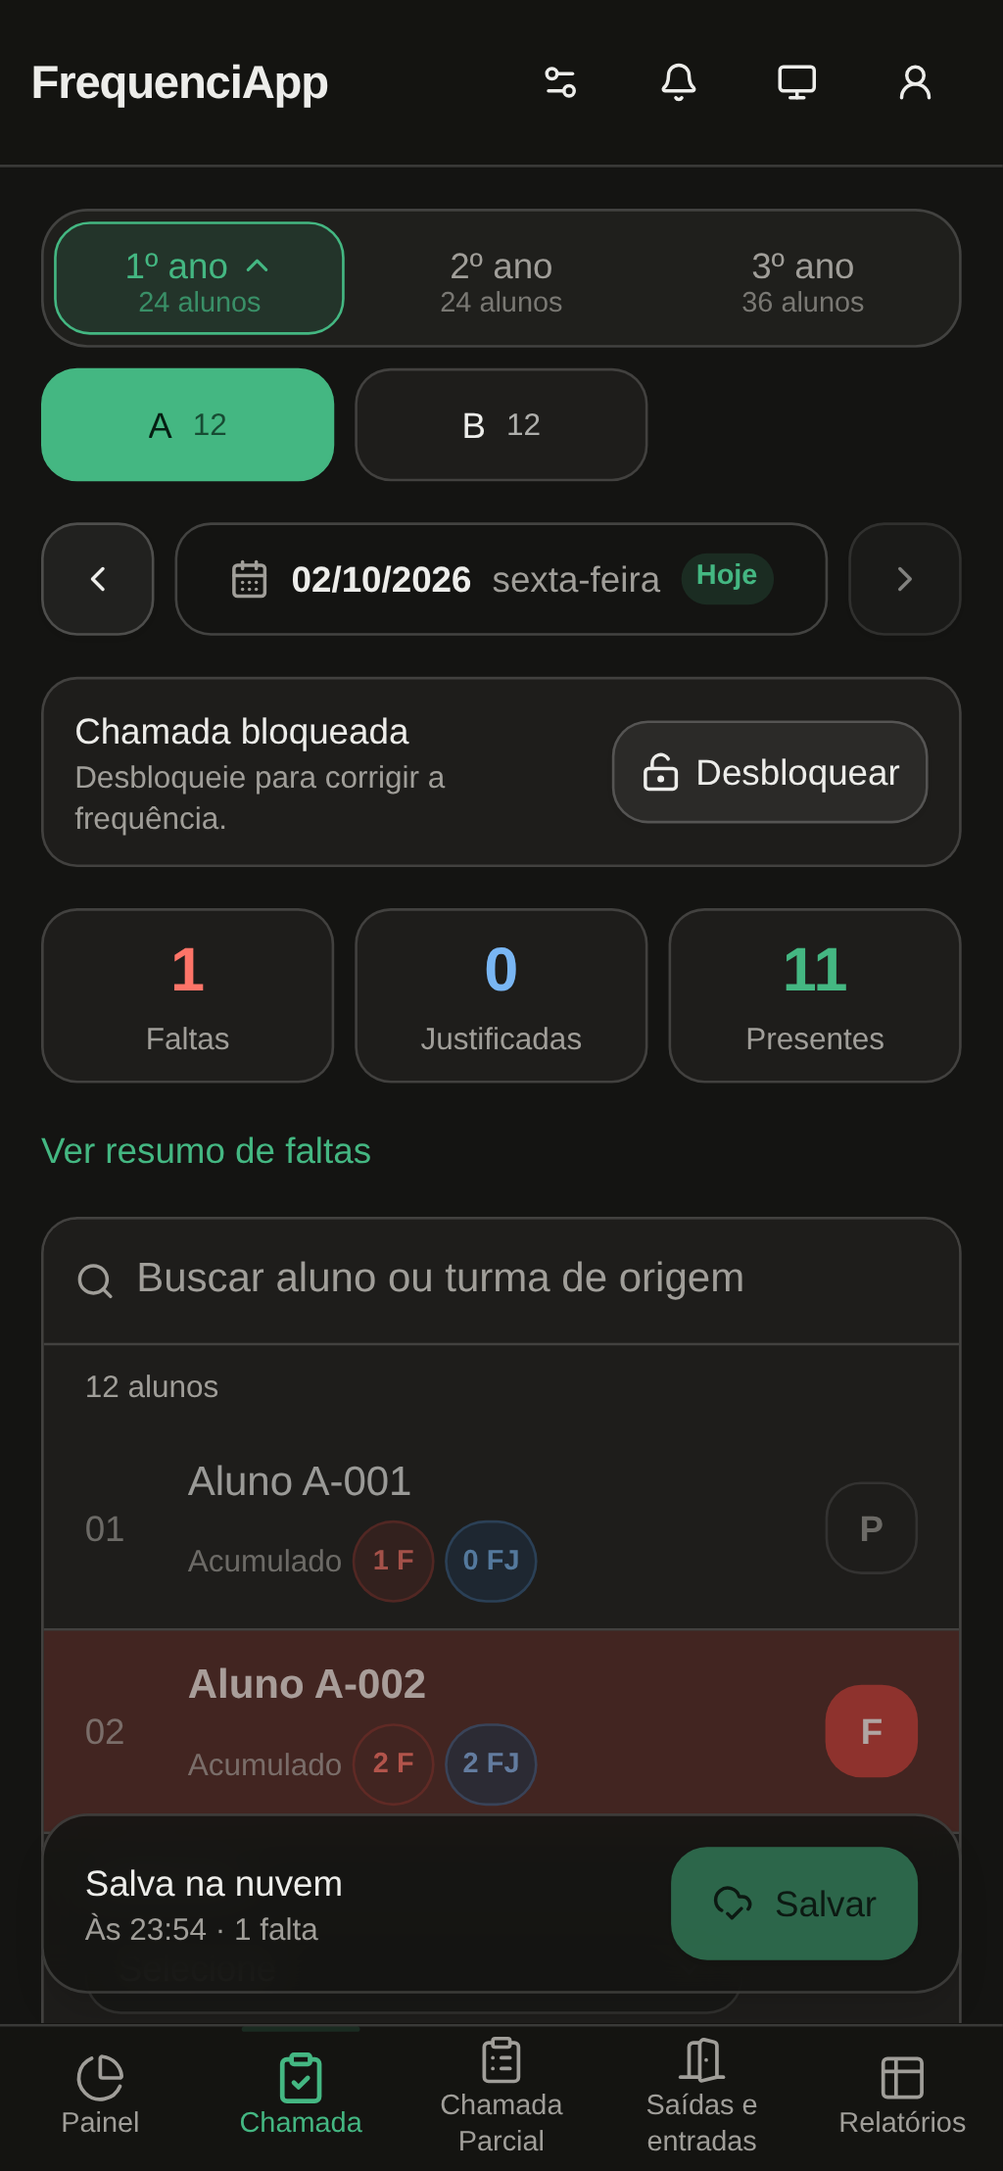
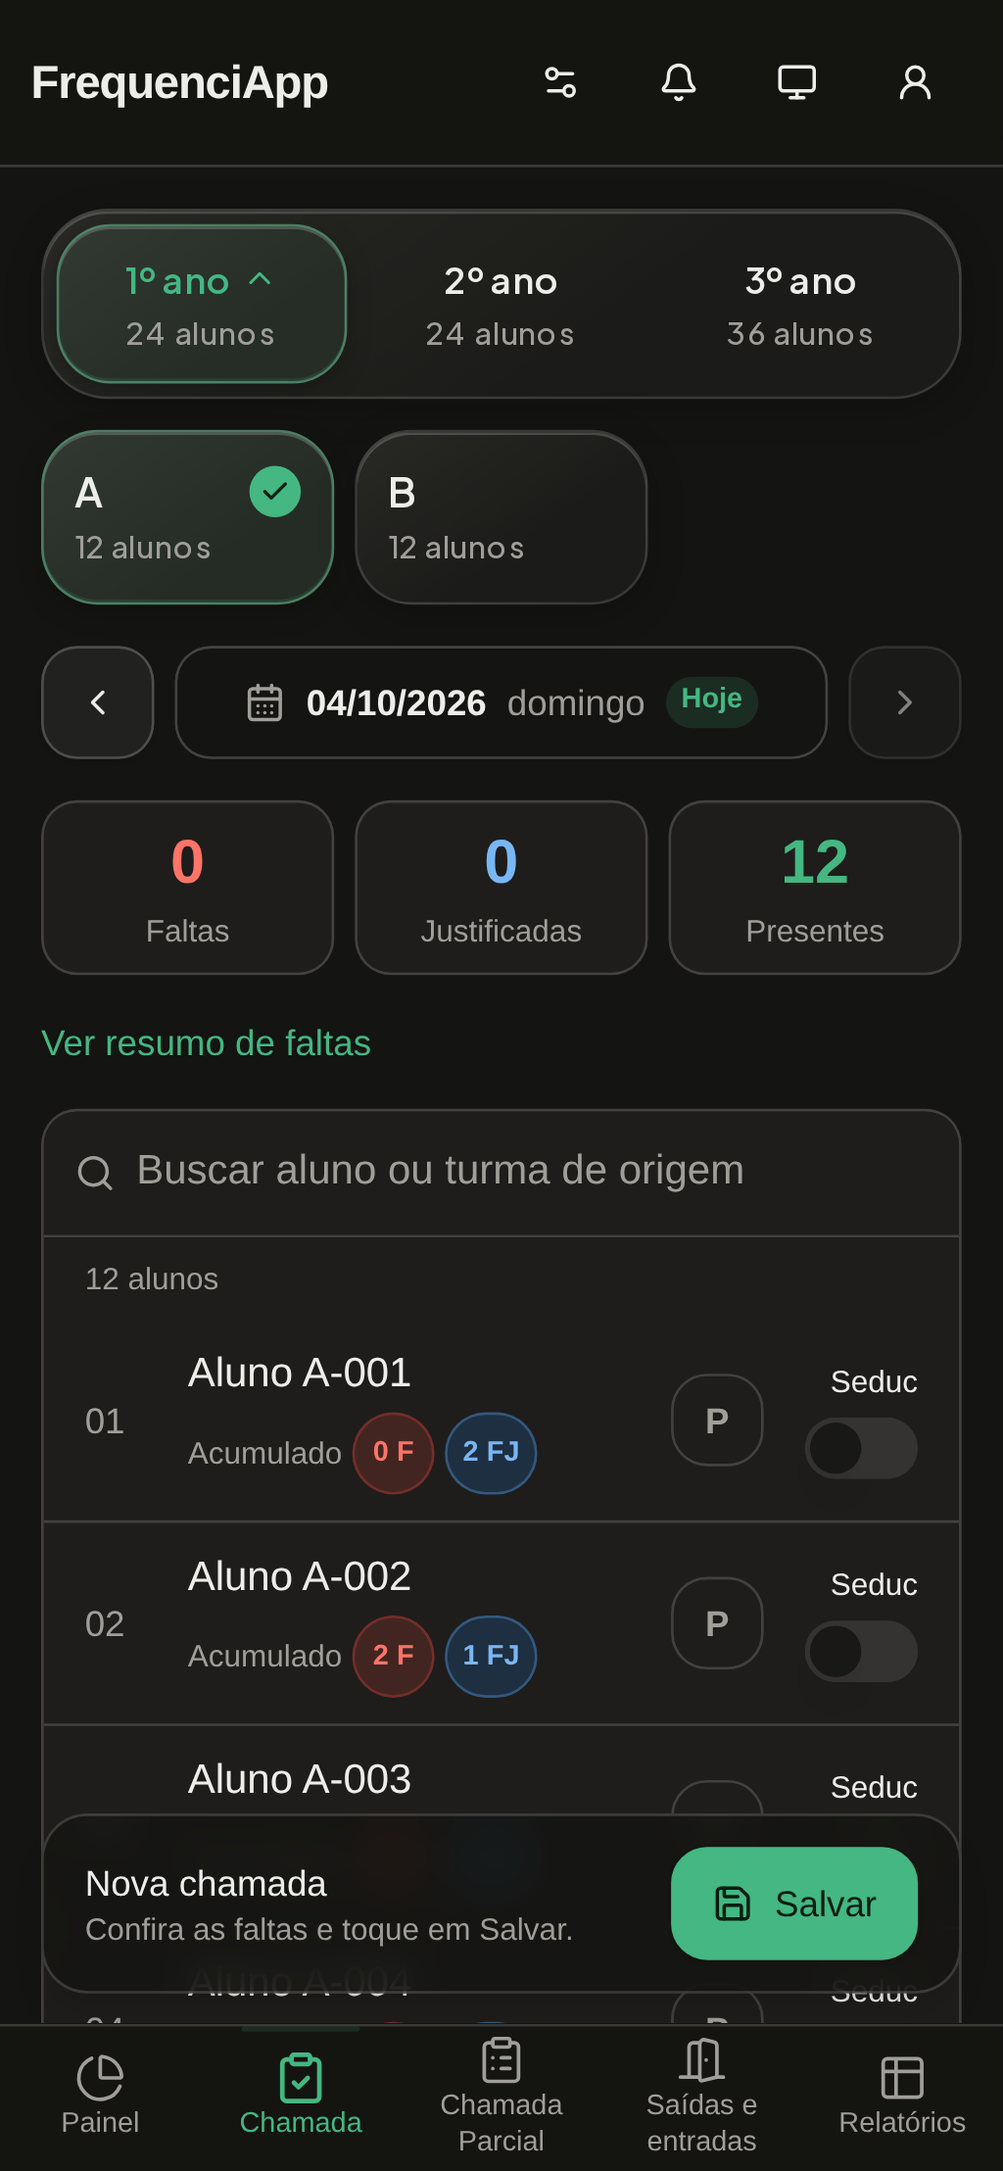
feat(interface): refine os seletores da Chamada com vidro
Aplica reflexos discretos e superfícies translúcidas aos seletores de ano e
turma, mantendo a paleta institucional e o comportamento da Chamada.
Inclui alternativas de contraste e transparência e atualiza as capturas
oficiais dos dois temas.

Refs #117
Assisted-by: Codex:GPT-6

diff --git a/src/components/frequencia/seletor-turma-chamada.module.css b/src/components/frequencia/seletor-turma-chamada.module.css
@@ -1,0 +1,164 @@
+/* Vidro dos seletores da Chamada: reflexos suaves, seleção verde e texto opaco.
+   O acabamento fica restrito ao componente e tem alternativas sem transparência. */
+.seletor {
+  --vidro-reflexo: rgb(255 255 255 / 78%);
+  --vidro-brilho: rgb(255 255 255 / 46%);
+  --vidro-sombra: rgb(24 34 29 / 7%);
+}
+
+:global(.dark) .seletor {
+  --vidro-reflexo: rgb(255 255 255 / 19%);
+  --vidro-brilho: rgb(255 255 255 / 6%);
+  --vidro-sombra: rgb(0 0 0 / 22%);
+}
+
+.faixa,
+.turma {
+  background-color: var(--card);
+  background-image: linear-gradient(145deg, var(--vidro-brilho), transparent 62%);
+  border: 1px solid color-mix(in oklab, var(--border) 80%, transparent);
+  box-shadow:
+    inset 0 1px 0 var(--vidro-reflexo),
+    0 4px 14px var(--vidro-sombra);
+}
+
+.faixa {
+  border-radius: calc(var(--radius) + 12px);
+  padding: 5px;
+}
+
+.serie,
+.turma {
+  position: relative;
+  height: auto;
+  min-width: 0;
+  flex-direction: column;
+  gap: 4px;
+  white-space: normal;
+  color: var(--foreground);
+  transition:
+    background-color 180ms ease,
+    border-color 180ms ease,
+    box-shadow 180ms ease,
+    scale 180ms ease;
+}
+
+.serie {
+  min-height: 56px;
+  border: 1px solid transparent;
+  border-radius: calc(var(--radius) + 7px);
+  padding: 10px 6px;
+  background: transparent;
+  box-shadow: none;
+}
+
+.serie:where([aria-pressed="true"]),
+.turma:where([aria-pressed="true"]) {
+  border-color: color-mix(in oklab, var(--primary) 45%, var(--border));
+  background-color: color-mix(in oklab, var(--primary) 12%, var(--card));
+  background-image: linear-gradient(145deg, var(--vidro-brilho), transparent 68%);
+  box-shadow:
+    inset 0 1px 0 var(--vidro-reflexo),
+    inset 0 -1px 0 color-mix(in oklab, var(--primary) 14%, transparent),
+    0 3px 10px var(--vidro-sombra);
+}
+
+.serie:where([aria-pressed="true"]) {
+  color: var(--primary);
+}
+
+.turma {
+  min-height: 68px;
+  align-items: flex-start;
+  border-radius: calc(var(--radius) + 8px);
+  padding: 12px;
+  text-align: left;
+}
+
+.confirmacao {
+  display: inline-flex;
+  width: 20px;
+  height: 20px;
+  flex-shrink: 0;
+  align-items: center;
+  justify-content: center;
+  border-radius: 50%;
+  color: var(--primary-foreground);
+  background: var(--primary);
+}
+
+.serie:focus-visible,
+.turma:focus-visible {
+  outline: 2px solid var(--ring);
+  outline-offset: 3px;
+}
+
+@supports (backdrop-filter: blur(12px)) or (-webkit-backdrop-filter: blur(12px)) {
+  .faixa,
+  .turma {
+    background-color: color-mix(in oklab, var(--card) 78%, transparent);
+    -webkit-backdrop-filter: blur(12px) saturate(1.15);
+    backdrop-filter: blur(12px) saturate(1.15);
+  }
+
+  .turma:where([aria-pressed="true"]) {
+    background-color: color-mix(in oklab, var(--primary) 12%, var(--card) 84%);
+  }
+}
+
+@media (hover: hover) {
+  .serie:where(:not(:disabled):hover),
+  .turma:where(:not(:disabled):hover) {
+    background-color: color-mix(in oklab, var(--primary) 7%, var(--card));
+    border-color: color-mix(in oklab, var(--primary) 35%, var(--border));
+  }
+
+  .serie:where([aria-pressed="true"]:hover),
+  .turma:where([aria-pressed="true"]:hover) {
+    background-color: color-mix(in oklab, var(--primary) 16%, var(--card));
+  }
+}
+
+@media (prefers-reduced-transparency: reduce) {
+  .faixa,
+  .serie,
+  .turma {
+    background-color: var(--card);
+    background-image: none;
+    -webkit-backdrop-filter: none;
+    backdrop-filter: none;
+  }
+
+  .serie:where([aria-pressed="true"]),
+  .turma:where([aria-pressed="true"]) {
+    background-color: var(--accent);
+  }
+}
+
+@media (forced-colors: active) {
+  .faixa,
+  .serie,
+  .turma {
+    background: Canvas;
+    color: CanvasText;
+    box-shadow: none;
+    -webkit-backdrop-filter: none;
+    backdrop-filter: none;
+  }
+
+  .serie:where([aria-pressed="true"]),
+  .turma:where([aria-pressed="true"]) {
+    outline: 2px solid Highlight;
+    outline-offset: -3px;
+  }
+
+  .serie:focus-visible,
+  .turma:focus-visible {
+    outline-offset: 3px;
+  }
+
+  .confirmacao {
+    background: Highlight;
+    color: HighlightText;
+  }
+}

diff --git a/src/components/frequencia/seletor-turma-chamada.tsx b/src/components/frequencia/seletor-turma-chamada.tsx
@@ -1,13 +1,14 @@
 "use client";
 
-// Seletor de série e turma da Chamada: controle segmentado de séries com as turmas
-// da série ativa logo abaixo. A série ativa é sempre a da turma escolhida.
+// Seletor de série e turma da Chamada com acabamento de vidro e seleção acessível.
+// A série ativa é sempre a da turma escolhida; trocar a aparência não altera o registro.
 import { useId, useMemo, useState } from "react";
 import { Check, ChevronDown } from "lucide-react";
 import { motion, useReducedMotion } from "motion/react";
 import type { Aluno, Turma } from "@/domain/frequencia";
 import { Button } from "@/components/ui/button";
 import { cn } from "@/lib/utils";
+import estilos from "./seletor-turma-chamada.module.css";
 
 interface Props {
   turmas: Turma[];
@@ -55,8 +56,12 @@ export function SeletorTurmaChamada({ turmas, alunos, turmaId, travado, onEscolh
   }
 
   return (
-    <div role="group" aria-label="Turma atual" className="flex flex-col gap-3 font-sans">
-      <div className="bg-secondary/40 grid grid-cols-[repeat(3,minmax(0,1fr))] gap-1 rounded-xl border p-1">
+    <div
+      role="group"
+      aria-label="Turma atual"
+      className={cn("flex flex-col gap-3 font-sans", estilos.seletor)}
+    >
+      <div className={cn("grid grid-cols-[repeat(3,minmax(0,1fr))] gap-1", estilos.faixa)}>
         {series.map((grupo) => {
           const ehAtiva = grupo.id === ativa?.id;
           const total = grupo.turmas.reduce(
@@ -75,12 +80,7 @@ export function SeletorTurmaChamada({ turmas, alunos, turmaId, travado, onEscolh
               aria-controls={ehAtiva ? `${id}-turmas` : undefined}
               disabled={travado && !ehAtiva}
               onClick={() => aoTocarSerie(grupo.id)}
-              className={cn(
-                "h-auto min-h-14 min-w-0 flex-col gap-1 rounded-lg border border-transparent px-2 py-2.5 whitespace-normal motion-reduce:transition-none",
-                ehAtiva
-                  ? "border-primary/30 bg-card text-primary hover:bg-card hover:text-primary shadow-xs"
-                  : "text-muted-foreground hover:bg-card/60 hover:text-foreground",
-              )}
+              className={estilos.serie}
             >
               <span className="flex w-full min-w-0 items-center justify-center gap-1">
                 <span className="truncate font-semibold" title={grupo.nome}>
@@ -132,23 +132,16 @@ export function SeletorTurmaChamada({ turmas, alunos, turmaId, travado, onEscolh
                 aria-pressed={ativo}
                 disabled={travado}
                 onClick={() => onEscolher(opcao.id)}
-                className={cn(
-                  "h-auto min-h-16 min-w-0 flex-col items-start gap-1 rounded-xl px-2 py-2.5 text-left whitespace-normal shadow-none motion-reduce:transition-none",
-                  ativo
-                    ? "border-primary bg-primary/10 text-foreground hover:bg-primary/15 hover:text-foreground dark:border-primary dark:bg-primary/10 dark:hover:bg-primary/15"
-                    : "bg-card hover:border-primary/40 hover:bg-secondary/60 dark:bg-card dark:hover:bg-secondary/60",
-                )}
+                className={estilos.turma}
               >
                 <span className="flex w-full min-w-0 items-center justify-between gap-1">
                   <span className="truncate text-base leading-5 font-semibold" title={opcao.rotulo}>
                     {opcao.nome}
                   </span>
                   {ativo && (
-                    <Check
-                      aria-hidden="true"
-                      className="text-primary size-3.5 shrink-0"
-                      strokeWidth={2.5}
-                    />
+                    <span className={estilos.confirmacao} aria-hidden="true">
+                      <Check className="size-3 shrink-0" strokeWidth={2.5} />
+                    </span>
                   )}
                 </span>
                 <span

diff --git a/docs/interface.md b/docs/interface.md
@@ -11,7 +11,7 @@ Baixar planilha, Exportar relação e Baixar cópia abrem o mesmo diálogo de pr
 - **Página única** com troca de visões por botões e navegação inferior no celular: Painel, Chamada, Chamada Parcial, Saídas e entradas e Relatórios para a equipe, mais Alunos (consulta) para a coordenação. No celular, Gestão fica no cabeçalho, antes do sino, apenas para a administração; seu botão indica quando a área está ativa e a barra inferior fica sem seleção nesse momento. No desktop, barra lateral fixa com a mesma navegação e Gestão para a administração, o cartão da pessoa, o tema e as ações empilhadas (trocar senha e sair), e o conteúdo ocupa toda a largura, com troca de visão instantânea. O cabeçalho traz identidade, tema de três opções (sistema, claro e escuro) e menu de perfil. A área de saídas e entradas some quando o recurso é desligado na Gestão. As visões não repetem título nem texto de apoio na tela: o título existe só para leitores de tela (classe `sr-only`) e as explicações ficam nos diálogos de confirmação, onde a ação acontece.
 - **Painel**: sem botão de atualizar: os indicadores se atualizam sozinhos a cada minuto e ao voltar para a aba do navegador (sem tentar sem rede). Seletor de data com setas, cartões de alunos, presentes, faltas (F + FJ), justificadas, infrequência e saídas, e faixa de gráficos com rolagem horizontal nativa, encaixe por cartão e indicador de posição. Os botões de seleção foram retirados. A ordem é Escola, séries cadastradas, Personalizado e Desistentes. Escola mostra as faltas por série; cada série mostra as próprias turmas atuais e, quando indicada em Gestão > Configurações > Origem na Chamada, um segundo gráfico das mesmas faltas por turma original. Desistentes mostra as desistências por série. As roscas mantêm legenda de contagem e percentual, cada número no seu círculo, e detalhe por setor no formato "1º ano A: 3 faltas" em fundo opaco. A cobertura do dia fica no cartão da escola ou da série, com as turmas pendentes do recorte. A faixa recebe foco e aceita setas esquerda e direita, Home e End, respeitando a preferência de movimento reduzido. Cartões fora de exibição ficam inertes e ocultos do leitor de tela; controles do cartão ativo mantêm os próprios atalhos. A altura acompanha o cartão ativo, inclusive ao gerar o período personalizado, e a rolagem fica contida na faixa, sem alargar a página. Mudar a largura ou sair do Painel e retornar mantém o cartão em exibição.
 - **Painel personalizado**: cartão Personalizado depois das séries e antes de Desistentes, acessível pela rolagem lateral, sem fixar nome de série no código. Exibe calendários brasileiros para Data inicial e Data final, filtro de série e, depois de selecionar uma série, filtro de turma. Gerar gráfico consulta o intervalo inclusivo pela API existente, mesmo entre meses, limitado a 366 dias e até hoje. A rosca mostra a distribuição de F + FJ por série atual ou pelas turmas atuais da série selecionada; o resumo e a legenda mostram a taxa sobre os registros de aluno por dia com chamada salva, sem média das taxas diárias. Listas históricas da chamada e desistências vigentes em cada dia são respeitadas; alunos inativos ficam fora, como no Painel diário. Dias sem chamada não contam como presença. Alterar datas ou filtros invalida o resultado até nova geração. Carregamento, falha recuperável, ausência de chamadas e chamadas sem faltas têm estados próprios. A data e o resumo diário continuam acima da faixa; o cartão identifica o período e o resumo do intervalo separadamente. Deslizar para outro cartão preserva as datas, os filtros e o resultado.
-- **Chamada**: seletor de turma em controle segmentado de séries, com a quantidade de alunos de cada uma; a série ativa é sempre a da turma escolhida e recebe borda verde e fundo elevado. Logo abaixo aparecem só as turmas dela, em cartões com nome e quantidade de alunos em linhas separadas. A turma ativa tem fundo verde suave, borda e ícone de confirmação; contagens também são descritas aos leitores de tela. Os controles têm foco visível, altura mínima de 56 pixels nas séries e 64 nas turmas, com nomes completos no rótulo acessível. Tocar em outra série ativa a série e seleciona a primeira turma dela; tocar na série ativa recolhe ou reabre as turmas. Com alterações por salvar, as outras séries e turmas ficam desabilitadas. Barra de data com setas de dia, rótulo amigável (data, dia da semana e selo Hoje) e seletor próprio que abre em popover ancorado, no desktop e no celular, com calendário do mês, teclado e atalho Hoje, sem permitir dia futuro; atalho para voltar a hoje, cartões clicáveis de faltas, justificadas e presentes que filtram a lista, taxa de infrequência, busca por nome e a lista de alunos com divisórias finas. A lista segue a relação atual da turma, na ordem cadastrada; ao reabrir um dia salvo, mostra quem estava naquela chamada, mesmo que tenha mudado de turma depois. Na turma reorganizada, com algum aluno de outra turma original, cada nome ganha a turma original em um círculo ao lado (por exemplo "3º B"), também lida pelo leitor de tela. Cada aluno marcado ganha o seletor de justificativa do catálogo; escolher um código transforma a falta em FJ e o código Outros aceita observação. O acumulado do aluno aparece na linha e no resumo de faltas, com faltas e faltas justificadas cada uma em um círculo. No modo por aula, as aulas do dia aparecem como referência e cada aluno marcado ganha o botão Aulas, com chips para registrar a saída no meio da aula. Cada aluno traz a chave Seduc, com nome acessível "Registrado na Seduc". A confirmação manual só fica habilitada na chamada salva e bloqueada, guarda data e responsável e pode ser desmarcada sem desbloquear. Salvar sem mudanças preserva as confirmações; corrigir presença, aulas ou justificativa desmarca apenas os alunos afetados. Marcar a Seduc não altera a revisão nem o horário da chamada e não aciona envio ao Google. No desktop, a lista fica à esquerda e o painel de turma, data, resumo e salvamento à direita, fixo durante a rolagem.
+- **Chamada**: seletor de turma em controle segmentado de séries, com a quantidade de alunos de cada uma; a série ativa é sempre a da turma escolhida. O seletor tem acabamento de vidro, com reflexos discretos, desfoque moderado e sombras suaves nos dois temas, mantendo o verde institucional e o texto opaco. Logo abaixo aparecem só as turmas dela, em cartões com nome e quantidade de alunos em linhas separadas. A série e a turma ativas têm fundo verde suave e borda; a turma também traz um ícone de confirmação em círculo. Há alternativas sólidas sem suporte a desfoque ou com transparência reduzida e seleção por contorno em alto contraste; contagens também são descritas aos leitores de tela. Os controles têm foco visível, altura mínima de 56 pixels nas séries e 68 nas turmas, com nomes completos no rótulo acessível. Tocar em outra série ativa a série e seleciona a primeira turma dela; tocar na série ativa recolhe ou reabre as turmas. Com alterações por salvar, as outras séries e turmas ficam desabilitadas. Barra de data com setas de dia, rótulo amigável (data, dia da semana e selo Hoje) e seletor próprio que abre em popover ancorado, no desktop e no celular, com calendário do mês, teclado e atalho Hoje, sem permitir dia futuro; atalho para voltar a hoje, cartões clicáveis de faltas, justificadas e presentes que filtram a lista, taxa de infrequência, busca por nome e a lista de alunos com divisórias finas. A lista segue a relação atual da turma, na ordem cadastrada; ao reabrir um dia salvo, mostra quem estava naquela chamada, mesmo que tenha mudado de turma depois. Na turma reorganizada, com algum aluno de outra turma original, cada nome ganha a turma original em um círculo ao lado (por exemplo "3º B"), também lida pelo leitor de tela. Cada aluno marcado ganha o seletor de justificativa do catálogo; escolher um código transforma a falta em FJ e o código Outros aceita observação. O acumulado do aluno aparece na linha e no resumo de faltas, com faltas e faltas justificadas cada uma em um círculo. No modo por aula, as aulas do dia aparecem como referência e cada aluno marcado ganha o botão Aulas, com chips para registrar a saída no meio da aula. Cada aluno traz a chave Seduc, com nome acessível "Registrado na Seduc". A confirmação manual só fica habilitada na chamada salva e bloqueada, guarda data e responsável e pode ser desmarcada sem desbloquear. Salvar sem mudanças preserva as confirmações; corrigir presença, aulas ou justificativa desmarca apenas os alunos afetados. Marcar a Seduc não altera a revisão nem o horário da chamada e não aciona envio ao Google. No desktop, a lista fica à esquerda e o painel de turma, data, resumo e salvamento à direita, fixo durante a rolagem.
 - **Chamada Parcial**: ao lado de Chamada, escolhe turma e dia e mostra os alunos ativos na ordem da chamada normal, com número, nome e ação por linha. Registrar abre o formulário com o aluno escolhido; somente o salvamento cria uma frequência parcial. Desistentes aparecem com o novo registro bloqueado. Busca e filtros incluem alunos sem frequência parcial; pendências na Seduc incluem somente registros salvos. Registros históricos continuam visíveis depois de transferência ou desativação. O formulário oferece Manhã, Tarde ou seleção exata de aulas, além de observação curta. Cada linha traz a chave "Registrado na Seduc", habilitada depois de salvar e marcada manualmente depois do lançamento externo. A chave guarda data e responsável; corrigir turno, aulas ou observação desfaz a confirmação. A chamada normal, os gráficos e a Grade continuam usando seus próprios registros. Rascunhos e pendências ficam separados, com aviso antes de sair sem salvar. O envio manual para a terceira planilha exige prévia; atualizar linhas já enviadas depende de opção explícita.
 - **Saídas e entradas**: dois seletores separam os registros. Entradas segue a estrutura da saída: data no calendário brasileiro `DD/MM/AAAA`, navegação diária, turma, aluno, Momento da entrada (aula ou pausa), horário, justificativa por tipo ou texto e Responsável pelo registro. O catálogo de responsáveis é o mesmo de Quem libera na Gestão. A lista mostra os dados do recorte e permite remoção confirmada. A turma e o nome do responsável ficam preservados depois de transferência ou renomeação; a autoria autenticada é independente. A chegada não muda a chamada. A administração confirma a criação da aba Entradas na planilha de saídas pela Sheets API; o envio manual exige prévia.
 - **Saídas e entradas**: a área abre em abas no topo (Saídas e Entradas). A aba ativa fica na URL (`?visao=saidas&aba=entradas`) e é restaurada ao recarregar ou abrir o link. Todos os horários usam o seletor próprio em popover (duas colunas de hora e minuto com itens de 44 px; a hora vale ao tocar e o minuto fecha o painel; teclado e foco como no calendário) e todas as datas usam o calendário em popover.

diff --git a/CHANGELOG.md b/CHANGELOG.md
@@ -98,6 +98,8 @@ Enquanto a primeira versão pública não é lançada, a versão do projeto perm
 
 ### Modificado
 
+- Seletores de ano e turma da Chamada com acabamento de vidro, reflexos discretos e confirmação circular, mantendo a paleta institucional, texto opaco e alternativas de acessibilidade.
+
 - Guia de contribuição e AGENTS.md passam a exigir etiquetas em issues e pull requests, commits atômicos organizados em um único pull request e abertura somente com o trabalho finalizado.
 - Gestão passa para o cabeçalho do celular, antes do sino. Chamada Parcial ocupa o lugar ao lado de Chamada na navegação inferior.
 
